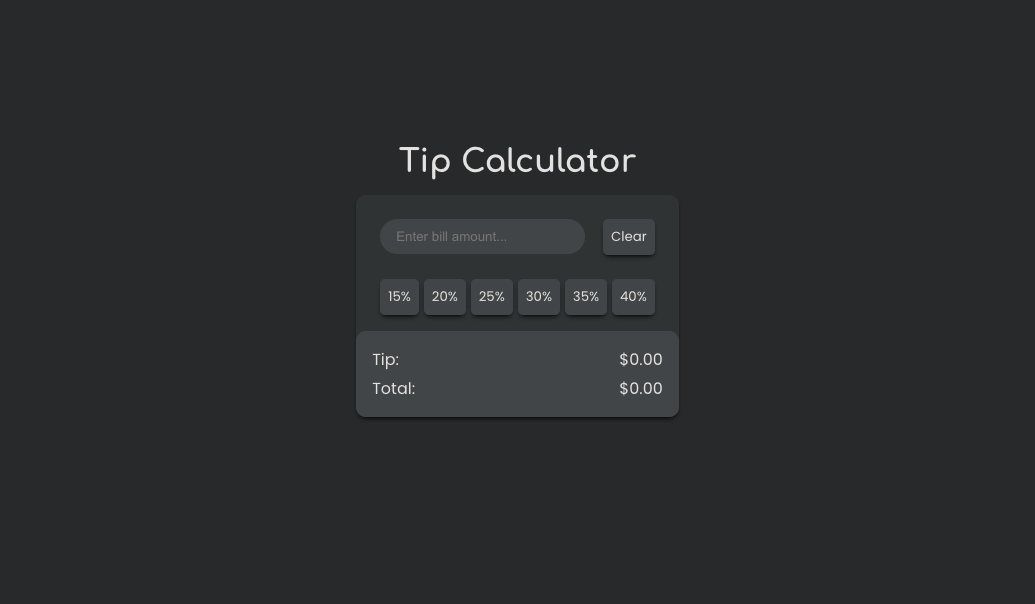
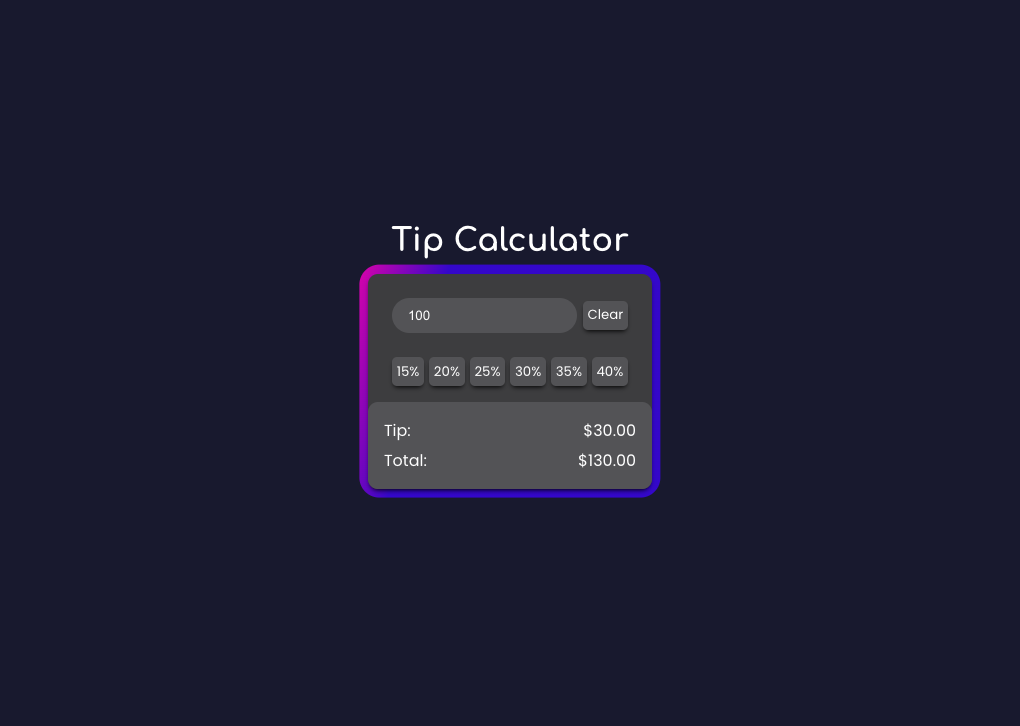
Update Readme

Changed region(s): [[0.3343, 0.2384, 0.6686, 0.7152]]

diff --git a/styles.css b/styles.css
@@ -4,7 +4,7 @@
   box-sizing: border-box;
 }
 :root {
-  --background: #39393a;
+  --background: #181a35;
   --offset: #464648;
   --inputs: #5e5e61;
   --accent: #e6e6e6;
@@ -51,7 +51,7 @@ main::before {
   z-index: -1;
   border-radius: 20px;
   animation: rotateGradient 12s linear infinite;
-  filter: blur(0.08rem);
+  /* filter: blur(0.02rem); */
 }
 
 main {
@@ -113,7 +113,7 @@ input {
 
 button {
   font-family: var(--body);
-  padding: 0.5rem;
+  padding: 0.3rem;
   background: var(--inputs);
   border: none;
   color: var(--text);
